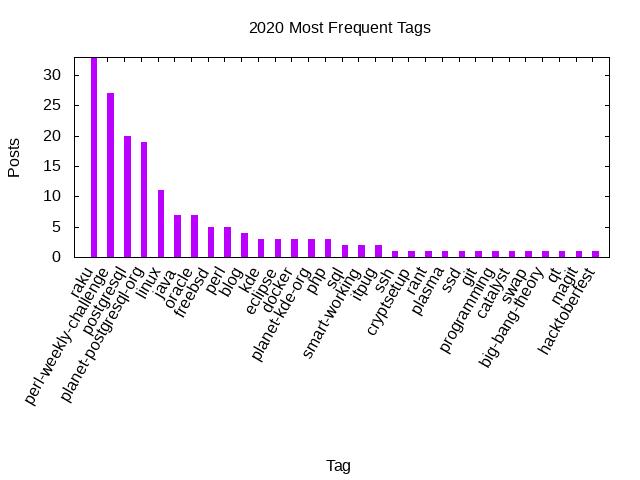
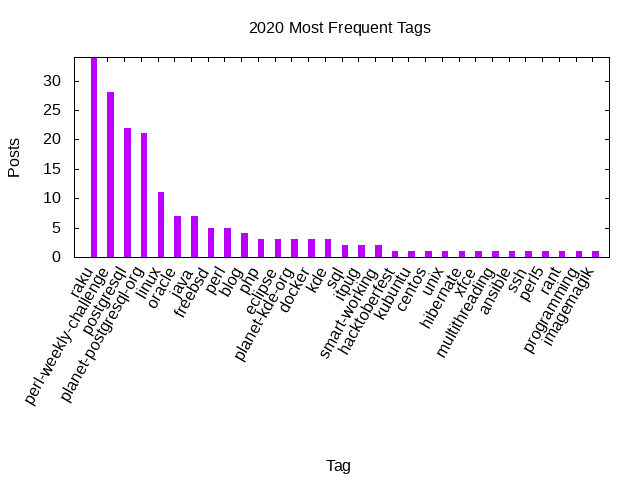
Stats update.

diff --git a/_includes/stats/2020.md b/_includes/stats/2020.md
@@ -1,40 +1,40 @@
 ## 2020 (work in progress)
 
-**83 total posts** have been written on 2020.
+**86 total posts** have been written on 2020.
 There have been *48 different tags* used, the most
 popular being (sorted by number of posts):
  
-- *raku* (33 posts)  
-- *perl-weekly-challenge* (27 posts)  
-- *postgresql* (20 posts)  
-- *planet-postgresql-org* (19 posts)  
+- *raku* (34 posts)  
+- *perl-weekly-challenge* (28 posts)  
+- *postgresql* (22 posts)  
+- *planet-postgresql-org* (21 posts)  
 - *linux* (11 posts)  
-- *java* (7 posts)  
 - *oracle* (7 posts)  
+- *java* (7 posts)  
 - *freebsd* (5 posts)  
 - *perl* (5 posts)  
 - *blog* (4 posts)  
-- *kde* (3 posts)  
-- *eclipse* (3 posts)  
-- *docker* (3 posts)  
-- *planet-kde-org* (3 posts)  
 - *php* (3 posts)  
+- *eclipse* (3 posts)  
+- *planet-kde-org* (3 posts)  
+- *docker* (3 posts)  
+- *kde* (3 posts)  
 - *sql* (2 posts)  
-- *smart-working* (2 posts)  
 - *itpug* (2 posts)  
+- *smart-working* (2 posts)  
+- *hacktoberfest* (1 posts)  
+- *kubuntu* (1 posts)  
+- *centos* (1 posts)  
+- *unix* (1 posts)  
+- *hibernate* (1 posts)  
+- *xfce* (1 posts)  
+- *multithreading* (1 posts)  
+- *ansible* (1 posts)  
 - *ssh* (1 posts)  
-- *cryptsetup* (1 posts)  
+- *perl5* (1 posts)  
 - *rant* (1 posts)  
-- *plasma* (1 posts)  
-- *ssd* (1 posts)  
-- *git* (1 posts)  
 - *programming* (1 posts)  
-- *catalyst* (1 posts)  
-- *swap* (1 posts)  
-- *big-bang-theory* (1 posts)  
-- *qt* (1 posts)  
-- *magit* (1 posts)  
-- *hacktoberfest* (1 posts).<br/>
+- *imagemagik* (1 posts).<br/>
 <br/>
 The following is the overall 2020 post ratio by month:
 <br/>
@@ -53,7 +53,7 @@ The following is the overall 2020 post ratio by tag (showing max 30 tags):
 
 <div align="right">
 <small>
-Last generated on 2020-07-02 at 18:02
+Last generated on 2020-07-09 at 16:56
 </small>
 </div>
 
